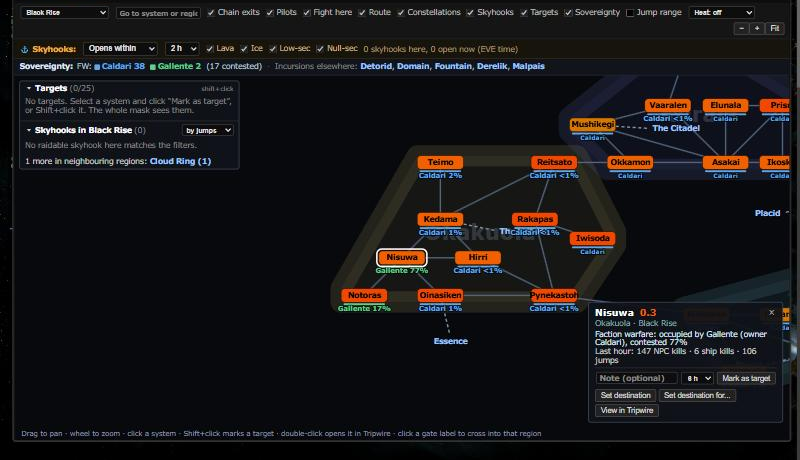
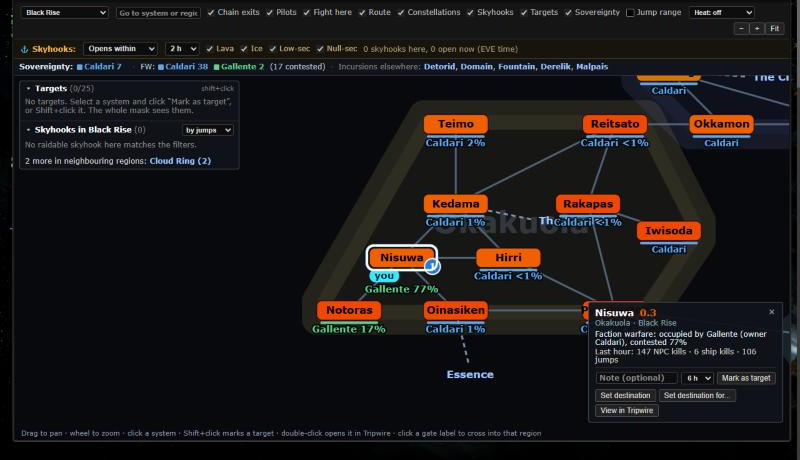
Region map sovereignty: review round 1 fixes
- Labels move below the "you" pill; the incursion badge sits on the box's top-right corner, clear of
  the tracked-pilot badge
- Turning the overlay off is counted (regionMapSov.turned_off); catalog success signal reworded
  around shown / opened / turned_off
- "Faction warfare unavailable" only in regions that can have FW (low-sec or empire faction space)
- "Vulnerable" / "Captured" instead of VULN / CAPT
- Overlay off: no region_sov.php fetch and no sov / incursion lines on the card or tooltips

diff --git a/app/js/fork/region-map-view.js b/app/js/fork/region-map-view.js
@@ -287,10 +287,10 @@ if (typeof window !== "undefined" && typeof document !== "undefined" && typeof j
 			});
 		}
 
-		/** null when the overlay is off and no system is selected (the card's line needs the data too), else {on, data, ...} */
+		/** null when the overlay is off (nothing is fetched or shown then), else {on, data, ...} */
 		function sovContext(layout) {
 			const on = rm.settings(options).overlays.sov;
-			if (!rv || (!on && !state.sel)) { return null; }
+			if (!rv || !on) { return null; }
 			ensureSov(state.regionID);
 			const entry = state.sov[state.regionID] || {}, data = entry.data || null, fws = sovFw();
 			const factions = (typeof appData !== "undefined" && appData.factions) || {};
@@ -312,15 +312,15 @@ if (typeof window !== "undefined" && typeof document !== "undefined" && typeof j
 						width: rm.BOX_W - 8, height: h.label ? 3 : 2, rx: 1.5, fill: h.colour }, L.sov);
 				}
 				if (h.label) {
-					// "you" sits under the box's left end: the label moves to the right end there
+					// "you" (a pill under the box's left end, down to bottom + 17) pushes the label below it
 					const you = pilots && pilots[s.id] && pilots[s.id].you;
-					el("text", { "class": "rm-sov-label rm-sov-" + h.kind + (h.state ? " rm-fw-" + h.state : ""), fill: h.colour, y: (bottom + 14).toFixed(1),
-						x: (you ? s.x + rm.BOX_W / 2 : s.x).toFixed(1), "text-anchor": you ? "end" : "middle" }, L.sov, h.label);
+					el("text", { "class": "rm-sov-label rm-sov-" + h.kind + (h.state ? " rm-fw-" + h.state : ""), fill: h.colour, y: (bottom + (you ? 29 : 14)).toFixed(1),
+						x: s.x.toFixed(1), "text-anchor": "middle" }, L.sov, h.label);
 				}
 				const i = sv.inc[s.id];
 				if (i) {
 					outline(L.sov, s, "rm-inc-ring", i.staging ? 2.5 : 1.5);
-					const g = el("g", { "class": "rm-inc" + (i.staging ? " rm-inc-staging" : ""), "data-id": s.id, transform: "translate(" + (s.x + rm.BOX_W / 2 + 1).toFixed(1) + " " + s.y.toFixed(1) + ")" }, L.sov);
+					const g = el("g", { "class": "rm-inc" + (i.staging ? " rm-inc-staging" : ""), "data-id": s.id, transform: "translate(" + (s.x + rm.BOX_W / 2 + 3).toFixed(1) + " " + (s.y - rm.BOX_H / 2).toFixed(1) + ")" }, L.sov);
 					el("circle", { r: i.staging ? 9 : 7 }, g);
 					el("text", { y: i.staging ? 4 : 3.5, "text-anchor": "middle" }, g, i.staging ? "\u2605" : "S");
 					el("title", null, g).textContent = rv.incursionText(i, sv.factions);
@@ -375,7 +375,8 @@ if (typeof window !== "undefined" && typeof document !== "undefined" && typeof j
 					}).join(", "));
 				}
 			}
-			const note = sv.data ? rv.statusText(sv.data, !!sv.fw) : (!sv.fw ? "Faction warfare unavailable." : "");
+			const fwOk = !!sv.fw || !rv.fwPossible(sv.ids, appData.systems, sv.data);
+			const note = sv.data ? rv.statusText(sv.data, fwOk) : (!fwOk ? "Faction warfare unavailable." : "");
 			if (note) { parts.push("<span class='rm-vwarn'>" + e(note) + "</span>"); }
 			const html = "<span class='rm-vlabel'>Sovereignty:</span> " + parts.join(" <span class='rm-vsep'>\u00b7</span> ");
 			const $info = $bar.find(".rm-vinfo");
@@ -1027,7 +1028,7 @@ if (typeof window !== "undefined" && typeof document !== "undefined" && typeof j
 			$d.on("change", "input[data-ov]", function() {
 				saveSetting({ overlay: { name: $(this).attr("data-ov"), on: this.checked } });
 				if (this.checked && $(this).attr("data-ov") === "skyhooks" && typeof forkUsage !== "undefined") { forkUsage.track("skyhooks", "opened"); }
-				if (this.checked && $(this).attr("data-ov") === "sov" && typeof forkUsage !== "undefined") { forkUsage.track("regionMapSov", "opened"); }
+				if ($(this).attr("data-ov") === "sov" && typeof forkUsage !== "undefined") { if (this.checked) { forkUsage.track("regionMapSov", "opened"); } else { forkUsage.track("regionMapSov", "turned_off"); } }
 				paint(true);
 			});
 			$d.on("change", ".rm-heat", function() { saveSetting({ heat: this.value }); paint(true); });

diff --git a/app/js-test/fork/region-map-sov.test.js b/app/js-test/fork/region-map-sov.test.js
@@ -51,8 +51,8 @@ describe('Region map sovereignty', () => {
 		it('labels the box', () => {
 			assert.strictEqual(rv.fwLabel(rv.fwInfo(fwSystems[5]), factions), 'Minmatar 37%');
 			assert.strictEqual(rv.fwLabel(rv.fwInfo(fwSystems[6]), factions), 'Caldari');
-			assert.strictEqual(rv.fwLabel(rv.fwInfo(fwSystems[8]), factions), 'Caldari VULN');
-			assert.strictEqual(rv.fwLabel(rv.fwInfo(fwSystems[9]), factions), 'Minmatar CAPT');
+			assert.strictEqual(rv.fwLabel(rv.fwInfo(fwSystems[8]), factions), 'Vulnerable');
+			assert.strictEqual(rv.fwLabel(rv.fwInfo(fwSystems[9]), factions), 'Captured');
 			const little = { owner_faction_id: 500001, occupier_faction_id: 500001, contested: 'contested', victory_points: 300, victory_points_threshold: 75000 };
 			assert.strictEqual(rv.fwLabel(rv.fwInfo(little), factions), 'Caldari <1%');
 			assert.strictEqual(rv.fwLabel(rv.fwInfo(Object.assign({}, little, { victory_points: 0 })), factions), 'Caldari 0%');
@@ -153,6 +153,15 @@ describe('Region map sovereignty', () => {
 			assert.strictEqual(rv.needsFetch({ data: { pending: true }, at: t, pendingTries: 1 }, t + rv.PENDING_MS), true);
 			assert.strictEqual(rv.needsFetch({ data: { pending: true }, at: t, pendingTries: 1 }, t + 1000), false);
 			assert.strictEqual(rv.needsFetch({ data: { pending: true }, at: t, pendingTries: rv.PENDING_MAX }, t + rv.PENDING_MS), false);
+		});
+		it('knows where faction warfare can be: low-sec or empire faction space', () => {
+			const systems = { 1: { security: -0.4 }, 2: { security: 0.3 }, 3: { security: 0.46 }, 4: { security: 0.04 } };
+			assert.strictEqual(rv.fwPossible([1], systems, data), false);
+			assert.strictEqual(rv.fwPossible([1, 2], systems, data), true);
+			assert.strictEqual(rv.fwPossible([3], systems, null), false, '0.46 shows as 0.5: high-sec');
+			assert.strictEqual(rv.fwPossible([4], systems, null), true, '0.04 shows as 0.1: low-sec');
+			assert.strictEqual(rv.fwPossible([5], {}, data), true, 'Amarr faction space');
+			assert.strictEqual(rv.fwPossible([4], {}, data), false, 'Guristas space');
 		});
 		it('says when data is missing or old', () => {
 			assert.strictEqual(rv.statusText(data, true), '');

diff --git a/app/js/fork/region-map-sov.js b/app/js/fork/region-map-sov.js
@@ -86,12 +86,13 @@ const regionMapSov = {
 		return "Faction warfare: " + who + ", " + what;
 	},
 
-	/** The label under the box: "Amarr", "Minmatar 37%", "Amarr VULN", "Caldari CAPT" */
+	/** The label under the box: "Amarr", "Minmatar 37%", "Vulnerable", "Captured" (the last two in the occupier's colour:
+	"Minmatar Vulnerable" would run into the neighbouring labels; the card and tooltip name the factions) */
 	fwLabel: function(info, factions) {
 		const name = regionMapSov.factionShort(info.occupier, factions);
 		if (info.state === "contested") { return name + " " + regionMapSov.percentText(info); }
-		if (info.state === "vulnerable") { return name + " VULN"; }
-		if (info.state === "captured") { return name + " CAPT"; }
+		if (info.state === "vulnerable") { return "Vulnerable"; }
+		if (info.state === "captured") { return "Captured"; }
 		return name;
 	},
 
@@ -221,7 +222,18 @@ const regionMapSov = {
 		return now - entry.at >= me.REFRESH_MS;
 	},
 
-	/** The bar's status note: "" when all is well */
+	/** Whether a region could have faction warfare systems: any low-sec system, or a system of an empire faction.
+	@param systems appData.systems (security); data region_sov.php's answer or null */
+	fwPossible: function(ids, systems, data) {
+		return (ids || []).some(function(id) {
+			const s = systems && systems[id], sec = s ? Number(s.security) : NaN;
+			if (isFinite(sec) && sec > 0 && Math.round(sec * 10) / 10 < 0.5) { return true; }
+			const row = data && data.systems && data.systems[id];
+			return !!row && regionMapSov.isEmpire(row.f);
+		});
+	},
+
+	/** The bar's status note: "" when all is well. fwLoaded: the FW list is loaded, or the region can't have FW anyway */
 	statusText: function(data, fwLoaded) {
 		if (!data) { return ""; }
 		const notes = [];

diff --git a/changes/2026-11-26-region-map-sovereignty/README.md b/changes/2026-11-26-region-map-sovereignty/README.md
@@ -22,8 +22,10 @@ sovereignty out because Tripwire had no cached sov feed; this adds one, kept on 
 Before: Delve with no sign of who holds it. After: each box has the holder's colour bar and ticker underneath, the bar
 above the map lists the region's main holders ([WINGS] 29, [INIT.] 21, ...) and links the regions with incursions, and
 the card says "Sov: The Initiative. [INIT.]". Black Rise: FW occupier and contest per system ("Gallente 77%"), the bar
-counts systems per occupier. Detorid: the infested constellation ringed in green with "S" badges, the staging system
-with a star, and the card line "Incursion (Sansha's Nation): established, staging system, mothership present".
+counts systems per occupier; "you" in Nisuwa pushes its label below the "you" pill. Detorid: the infested
+constellation ringed in green with "S" badges on the boxes' top-right corners, the staging system H-FGJO with a star
+(here with "you" and a tracked-pilot badge), and the card line "Incursion (Sansha's Nation): established, staging
+system, mothership present".
 
 ## Settings
 
@@ -35,6 +37,11 @@ Tip: none. The feature is a visible header toggle and bar on the region map, on 
 
 ## Change
 
+- Usage: `regionMapSov.shown` (the bar on screen, once a day), `regionMapSov.opened` (the box checked) and
+  `regionMapSov.turned_off` (the box unchecked; the overlay has no `settingsKey`, so the daily `disabled` snapshot can't
+  see it). Success signal: the bar shown to >=50% of region map users (`regionMap.opened`) by day 28, turned off by <15%
+  of them.
+
 - New `sovereignty.inc.php` + `public/region_sov.php?region=<id>` (session-gated, GET only): the server keeps one copy of
   ESI's public `GET /sovereignty/map` (1 h, ESI's own cache time; ETag through `esi/esi.inc.php`) and `GET /incursions`
   (10 min) in `cache/sov-map.json` / `cache/sov-incursions.json` for all users, refreshed under a lock (no stampede),
@@ -45,10 +52,12 @@ Tip: none. The feature is a visible header toggle and bar on the region map, on 
   still unnamed the answer says `pending` and the browser asks again after 20 s (at most 3 times). Browsers never call
   ESI for any of this. All calls go to ESI (CCP), no new third-party host.
 - Faction warfare comes from the list Tripwire already loads (`cached_third_party.php?key=fw`, `app/js/fw.js`); FW
-  systems show the occupier's colour and "Minmatar 37%" / "Amarr VULN" / "Caldari CAPT"; empire space outside FW gets
+  systems show the occupier's colour and "Minmatar 37%" / "Vulnerable" / "Captured" (the last two in the occupier's colour; the card and tooltip name the
+  factions); empire space outside FW gets
   only a thin faction-coloured bar, NPC null-sec its faction's name.
-- The data is only fetched while the overlay is on or a system is selected (the card's line), at most every 10 minutes
-  per region. If ESI or the endpoint is down the map works as before and the bar says what is unavailable.
+- The data is only fetched while the overlay is on, at most every 10 minutes per region; with the overlay off nothing is
+  fetched and the card and tooltips have no sovereignty or incursion lines. "Faction warfare unavailable" (the FW list
+  not loaded) is only said for regions that can have FW (any low-sec system or empire faction space). If ESI or the endpoint is down the map works as before and the bar says what is unavailable.
 - Not included: Angel / Guristas pirate insurgencies. ESI has no data for them (checked the OpenAPI spec and
   `/universe/systems/{id}`), so only Sansha incursions are shown.
 - Files: new `app/js/fork/region-map-sov.js` (pure logic), `sovereignty.inc.php`, `public/region_sov.php`, tests
